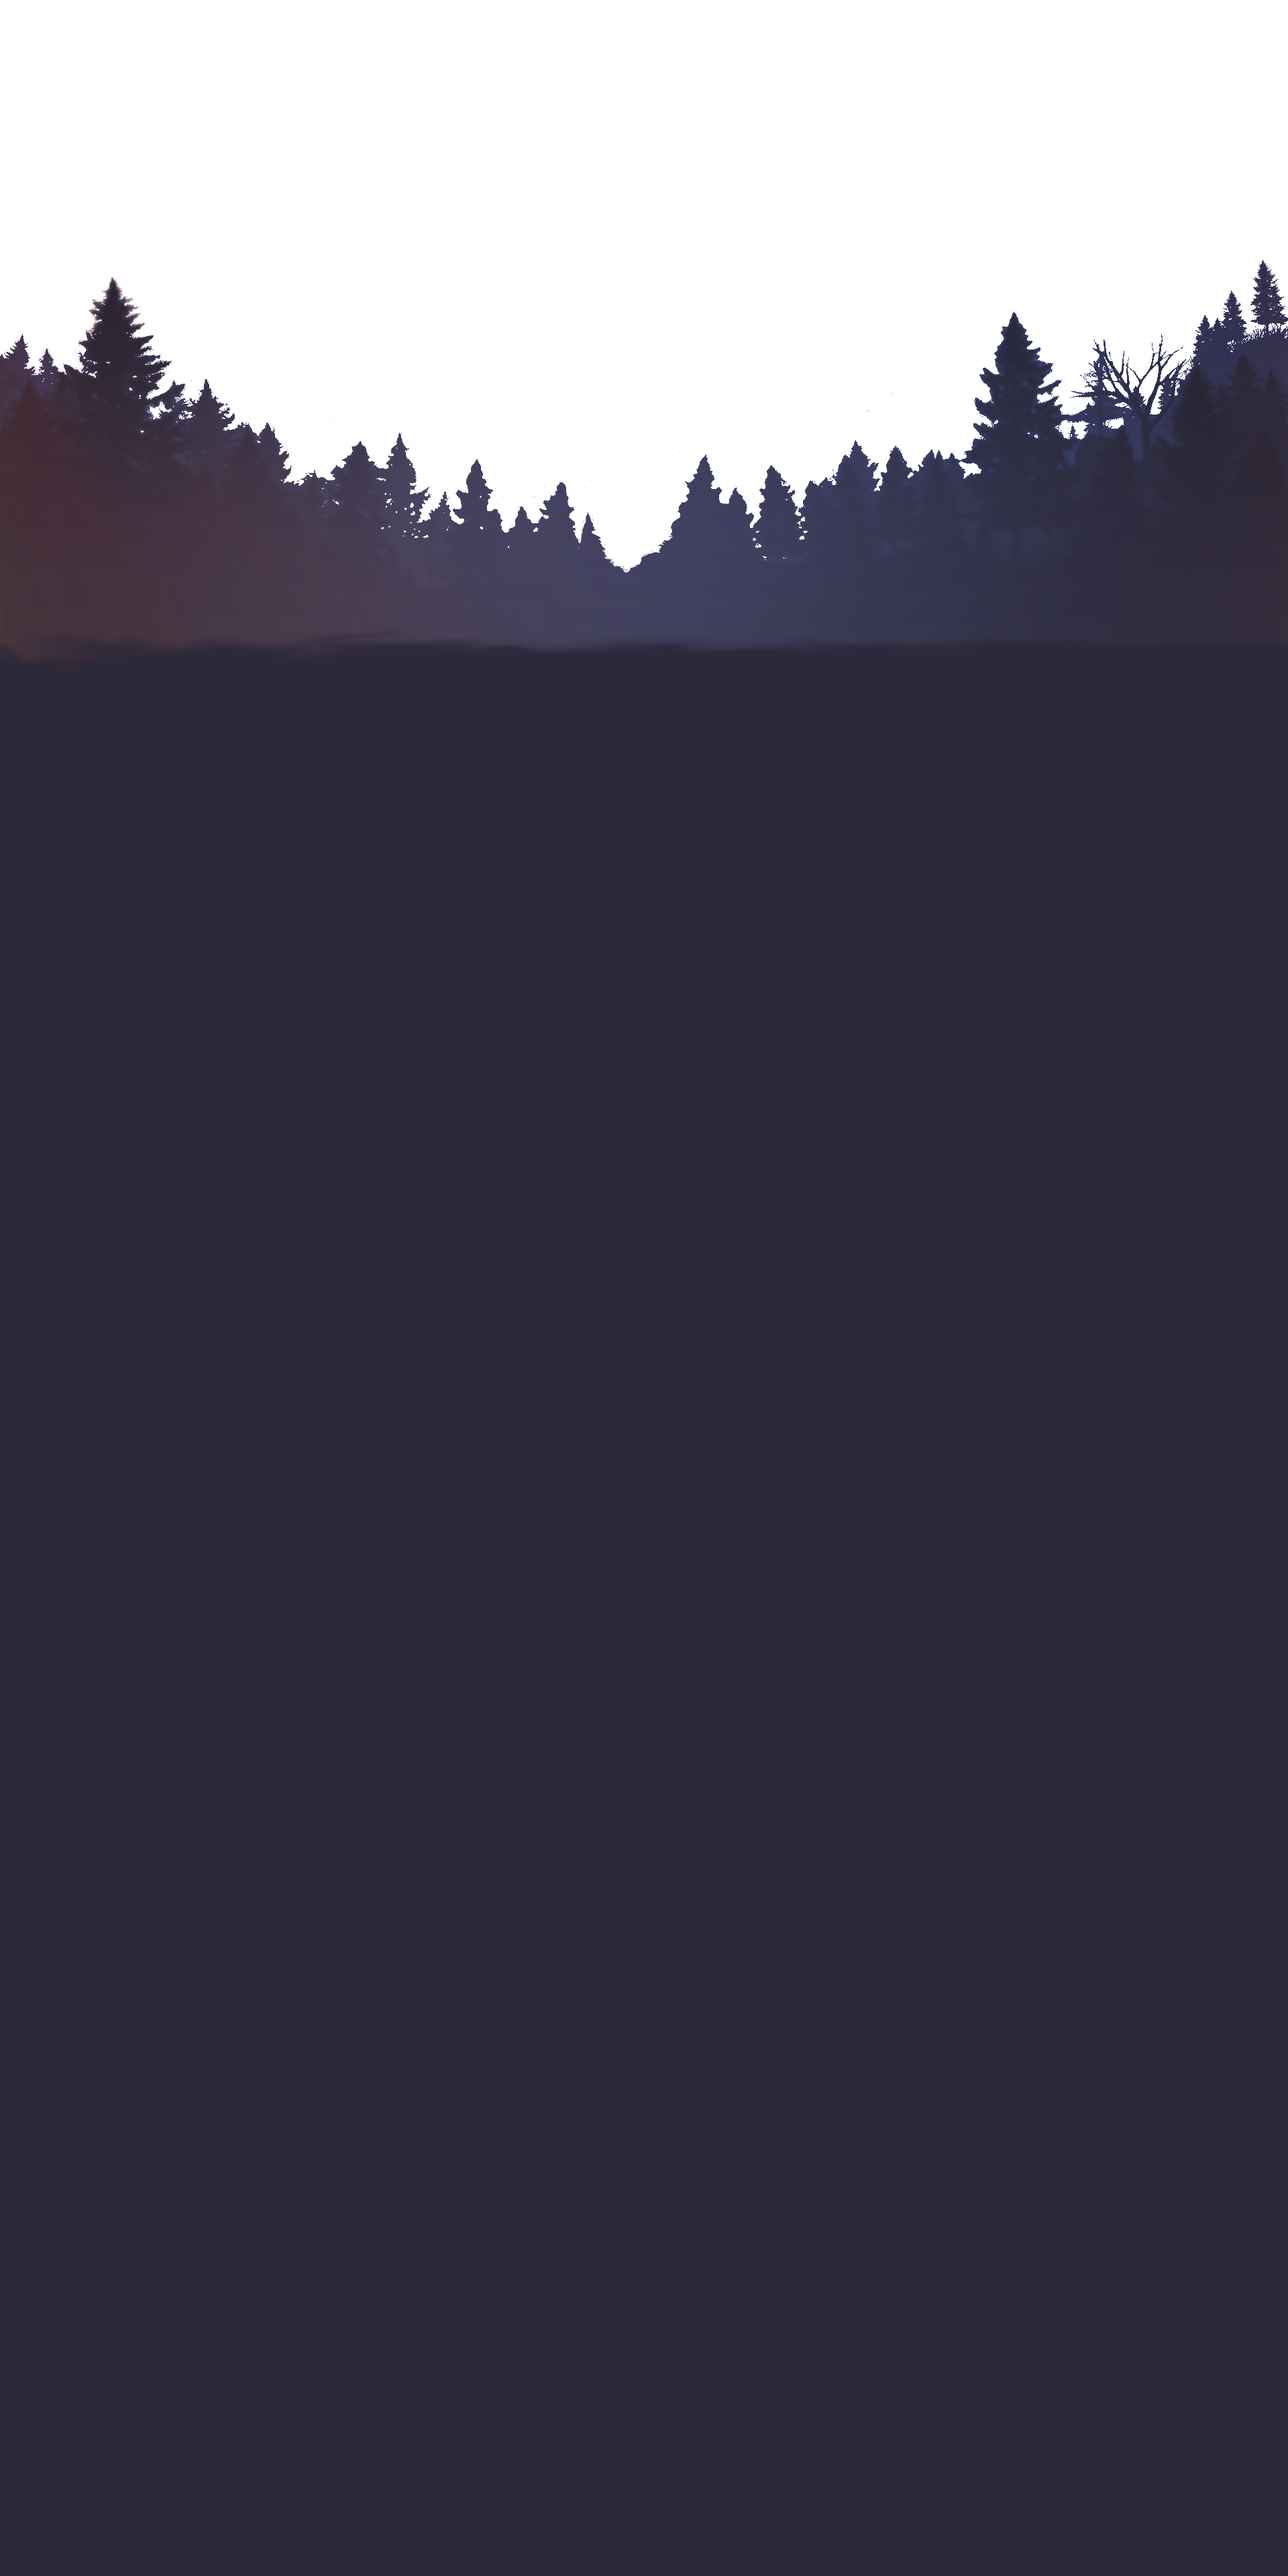
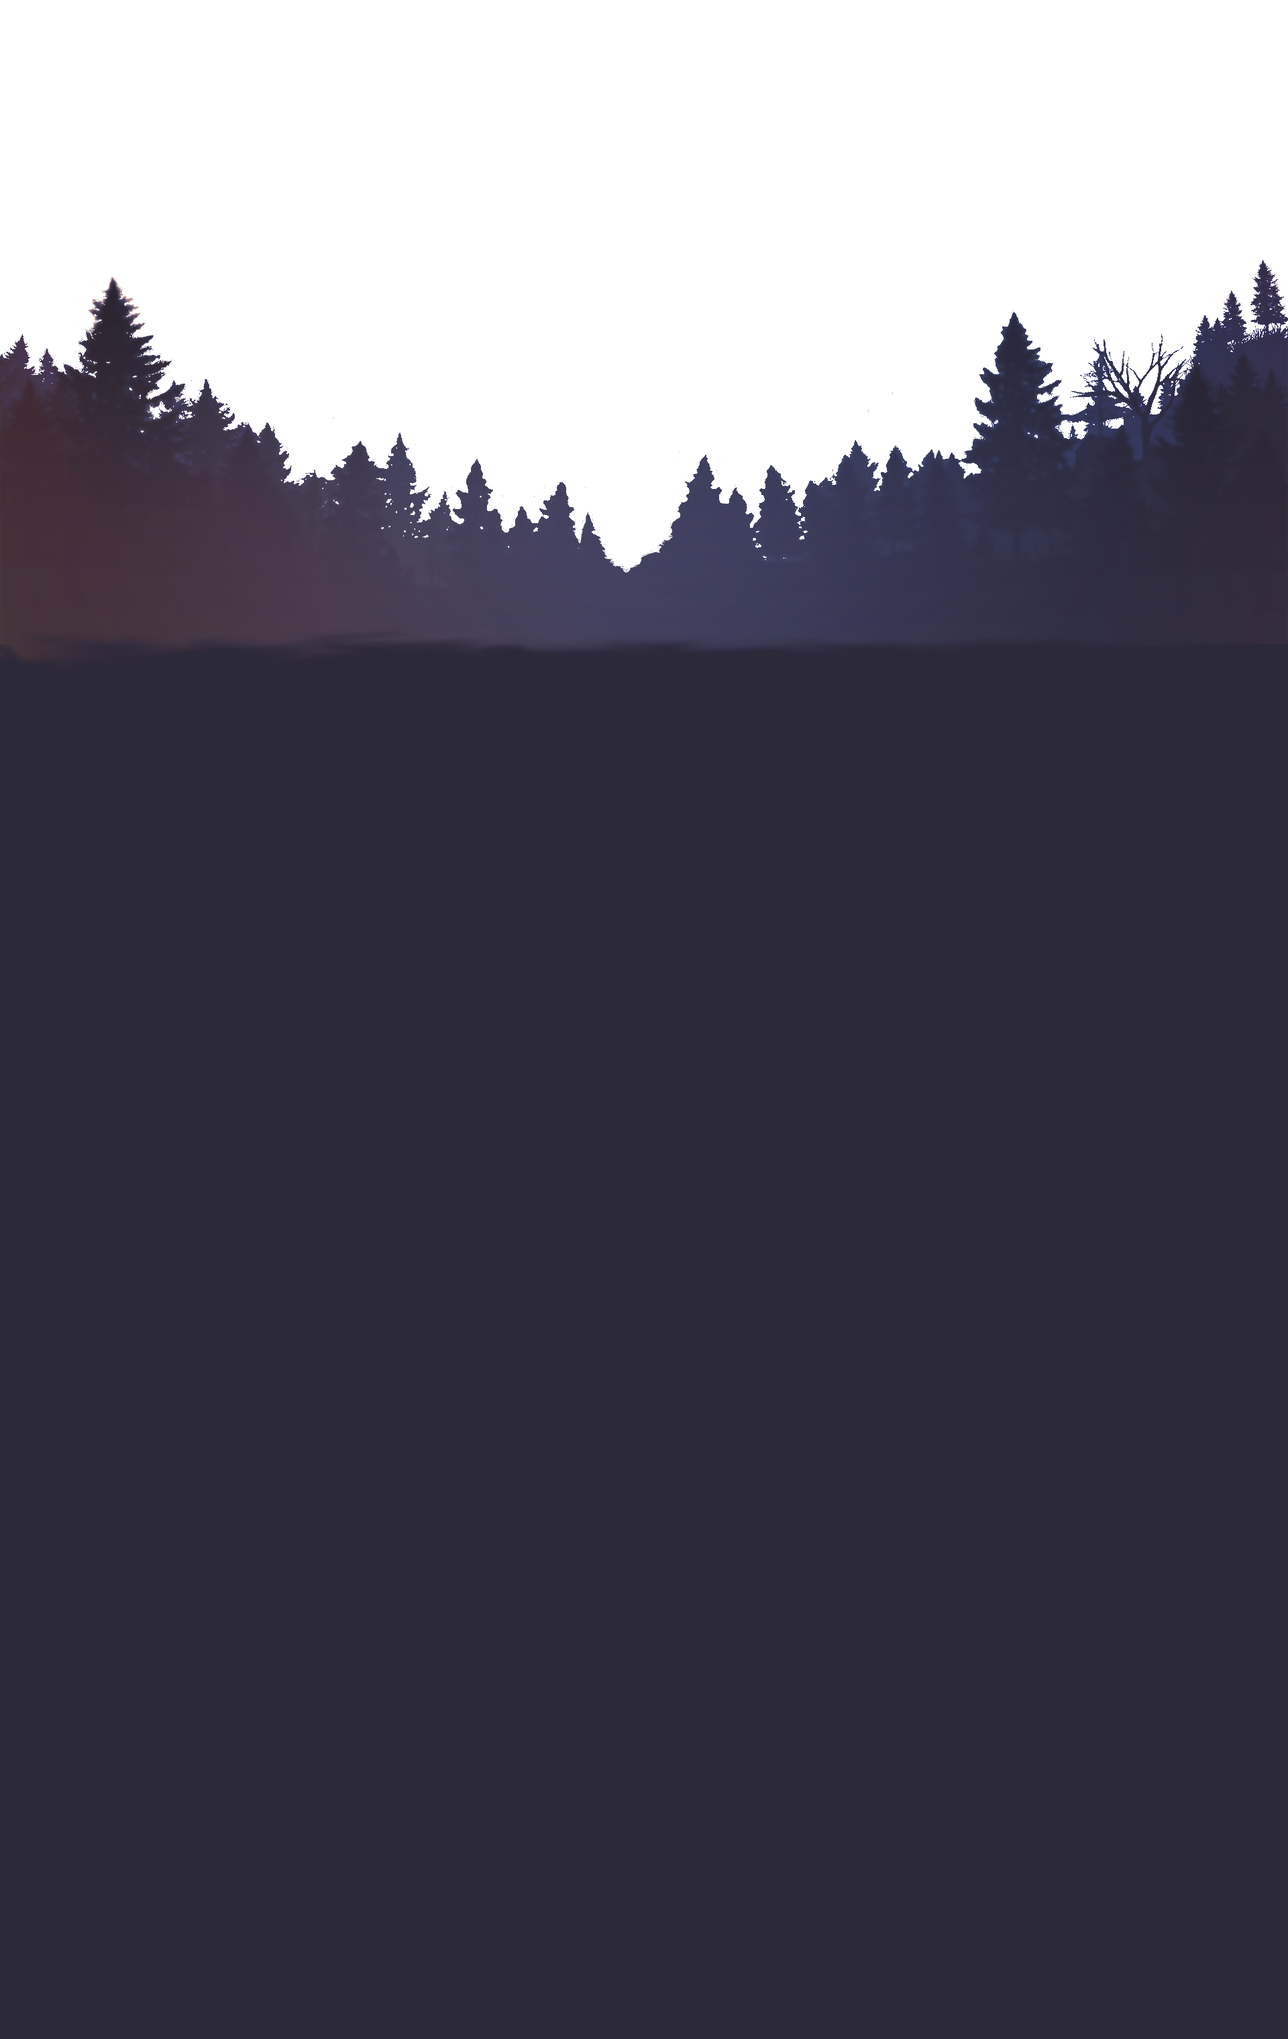
finally finished

Changed region(s): [[0.0, 0.0938, 1.0, 0.3438]]

diff --git a/src/components/parallax/parallax.js b/src/components/parallax/parallax.js
@@ -6,23 +6,30 @@ import parallax2 from '../../images/parallax/Background2.png';
 import parallax3 from '../../images/parallax/Background3.png';
 import parallax4 from '../../images/parallax/Background4.png';
 import parallax5 from '../../images/parallax/Background5.png';
+import mountains from '../../images/mountains.png';
 
 const createParallax = () => {
-  const domString = `
-    <img id="parallax1" class="img-fluid max-width: 100% parallax__layer parallax__layer--1" alt="Responsive image">
-    <img id="parallax2" class="img-fluid max-width: 100% parallax__layer parallax__layer--2" alt="Responsive image">
-    <img id="parallax3" class="img-fluid max-width: 100% parallax__layer parallax__layer--3" alt="Responsive image">
-    <img id="parallax4" class="img-fluid max-width: 100% parallax__layer parallax__layer--4" alt="Responsive image">
-    <img id="parallax5" class="img-fluid max-width: 100% parallax__layer parallax__layer--5" alt="Responsive image">
-    `;
+  if ($(window).width() >= 800) {
+    const domString = `
+      <img id="parallax1" class="img-fluid max-width: 100% parallax__layer parallax__layer--1" alt="Responsive image">
+      <img id="parallax2" class="img-fluid max-width: 100% parallax__layer parallax__layer--2" alt="Responsive image">
+      <img id="parallax3" class="img-fluid max-width: 100% parallax__layer parallax__layer--3" alt="Responsive image">
+      <img id="parallax4" class="img-fluid max-width: 100% parallax__layer parallax__layer--4" alt="Responsive image">
+      <img id="parallax5" class="img-fluid max-width: 100% parallax__layer parallax__layer--5" alt="Responsive image">
+      `;
 
-  $('#parallax').html(domString);
+    $('#parallax').html(domString);
 
-  $('#parallax1').attr('src', parallax1);
-  $('#parallax2').attr('src', parallax2);
-  $('#parallax3').attr('src', parallax3);
-  $('#parallax4').attr('src', parallax4);
-  $('#parallax5').attr('src', parallax5);
+    $('#parallax1').attr('src', parallax1);
+    $('#parallax2').attr('src', parallax2);
+    $('#parallax3').attr('src', parallax3);
+    $('#parallax4').attr('src', parallax4);
+    $('#parallax5').attr('src', parallax5);
+  } else {
+    const domString = '<img id="mountains" class="img-fluid max-width: 100% alt="Responsive image">';
+    $('#parallax').html(domString);
+    $('#mountains').attr('src', mountains);
+  }
 };
 
 export default createParallax;

diff --git a/src/components/projectsPage/projectPage.scss b/src/components/projectsPage/projectPage.scss
@@ -12,12 +12,14 @@
     padding: 5px;
     margin: 20px 10px 0px 10px;
     overflow: scroll;
+    color: black;
 
     a {
-      color: darkgray;
+      color: white;
     }
     li {
-      background-color: darkgrey
+      background-color: darkgrey;
+      color: black;
     }
   }
 }

diff --git a/src/index.scss b/src/index.scss
@@ -4,7 +4,7 @@
 body {
      background-color:#393853;
      font-family: 'Lato', sans-serif;
-     color: rgb(184, 243, 219);
+     color: lightgray;
      overscroll-behavior: none;
 }
 

diff --git a/src/components/footer/footer.scss b/src/components/footer/footer.scss
@@ -1,3 +1,7 @@
 footer {
   padding-top: 40px;
+
+    a{
+        color: white;
+    }
 }
